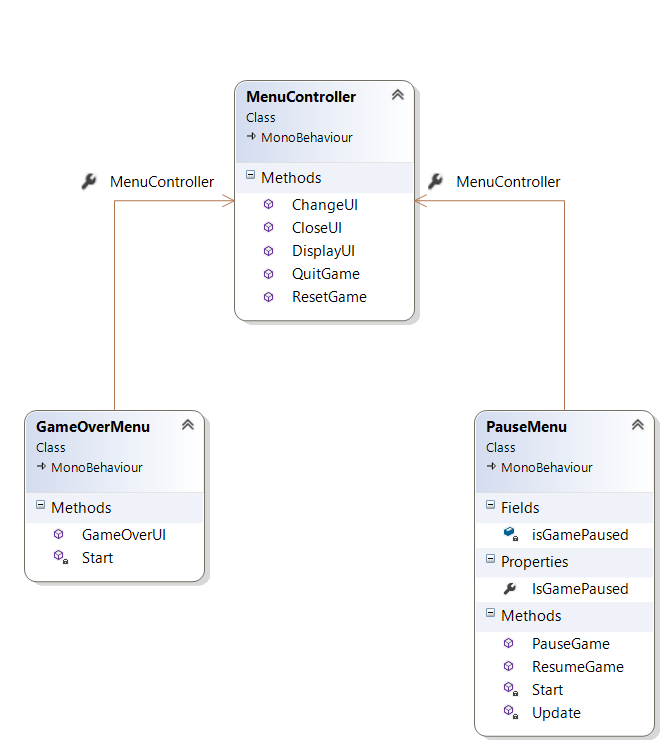
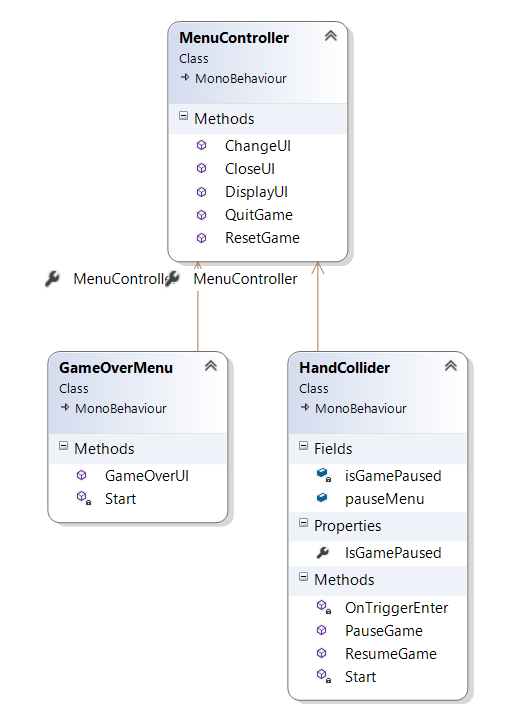
Redesigned class diagrams and uploaded screenshots of application in VR.

Changed region(s): [[0.0296, 0.0309, 1.0, 0.9902], [0.0888, 0.3713, 0.1183, 0.4023]]

diff --git a/UnityEngine/FinalYearUnity/Assets/__Scripts/PauseMenu.cs b/UnityEngine/FinalYearUnity/Assets/__Scripts/PauseMenu.cs
@@ -1,0 +1,77 @@
+using UnityEngine;
+
+public class PauseMenu : MonoBehaviour
+{
+    #region == Variables == 
+    private static bool isGamePaused = false;
+    
+    public static bool IsGamePaused
+    {
+        get { return isGamePaused; }
+        set { isGamePaused = value; }
+    }
+    #endregion
+
+    public MenuController MenuController
+    {
+        get
+        {
+            throw new System.NotImplementedException();
+        }
+
+        set
+        {
+        }
+    }
+
+    void Start()
+    {
+        gameObject.GetComponent<Canvas>().enabled = false;
+    }
+
+    // Update is called once per frame
+    void Update()
+    {
+        // Get esc key input from keyboard, to pause game from keyboard entry
+        if (Input.GetKeyDown(KeyCode.Escape))
+        {
+            if (isGamePaused)
+            {
+                ResumeGame();
+            }
+            else
+            {
+                PauseGame();
+            }
+        }
+    }
+
+    #region == Menu overlays (Pause)
+
+    // Resumes game if called
+    public void ResumeGame()
+    {
+        // Turn off the menu UI
+        //gameObject.SetActive(false);
+        gameObject.GetComponent<Canvas>().enabled = false;
+
+        // Start the game running again
+        Time.timeScale = 1f;
+        isGamePaused = false;
+    }
+
+    // Pauses game if called
+    public void PauseGame()
+    {
+        gameObject.GetComponent<Canvas>().enabled = true;
+
+        GameObject player = GameObject.FindGameObjectWithTag("Player");
+
+        gameObject.transform.position = new Vector3(player.transform.position.x, 1.75f, player.transform.position.z + 3);
+
+        Time.timeScale = 0f;
+        isGamePaused = true;
+    }
+    
+    #endregion
+}

diff --git a/UnityEngine/FinalYearUnity/Assets/__Scripts/MoveHead.cs b/UnityEngine/FinalYearUnity/Assets/__Scripts/MoveHead.cs
@@ -1,0 +1,20 @@
+using System.Collections;
+using System.Collections.Generic;
+using UnityEngine;
+
+public class MoveHead : MonoBehaviour
+{
+    // Start is called before the first frame update
+    void Start()
+    {
+        
+    }
+
+    // Update is called once per frame
+    void Update()
+    {
+        // Test to try and get NPC's head to turn towards player.
+        //transform.Rotate(70 * Time.deltaTime, 0f, 0f);
+        //transform.Translate(0f, 10, 0f);
+    }
+}

diff --git a/UnityEngine/FinalYearUnity/Assets/__Scripts/TextInput.cs b/UnityEngine/FinalYearUnity/Assets/__Scripts/TextInput.cs
@@ -1,0 +1,20 @@
+using System.Collections;
+using System.Collections.Generic;
+using UnityEngine;
+using UnityEngine.UI;
+
+public class TextInput : MonoBehaviour
+{
+    #region == Private Variables == 
+    [SerializeField]
+    private InputField m_TextInput;
+    #endregion
+    
+    public void sendMessage()
+    {
+        if (m_TextInput.text != null)
+        {
+            Debug.Log(m_TextInput.text);
+        }
+    }
+}
